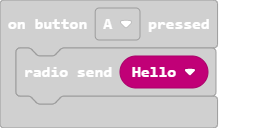
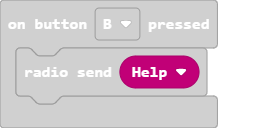
Update main.blocks, main.ts

diff --git a/main.ts b/main.ts
@@ -1,6 +1,7 @@
 enum RadioMessage {
     message1 = 49434,
-    Hello = 49337
+    Hello = 49337,
+    Help = 43444
 }
 input.onButtonPressed(Button.A, function () {
     radio.sendMessage(RadioMessage.Hello)
@@ -9,5 +10,5 @@ input.onButtonPressed(Button.AB, function () {
     radio.sendMessage(RadioMessage.message1)
 })
 input.onButtonPressed(Button.B, function () {
-    radio.sendMessage(RadioMessage.message1)
+    radio.sendMessage(RadioMessage.Help)
 })
